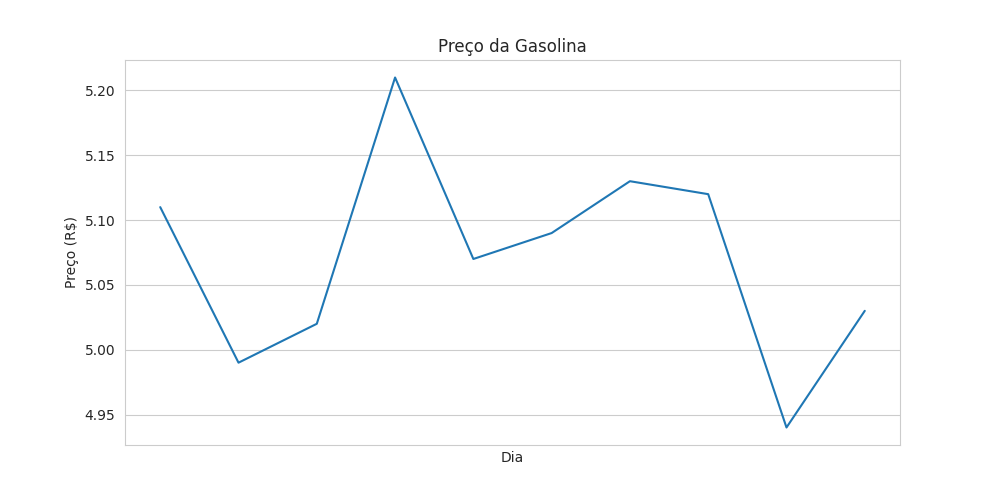
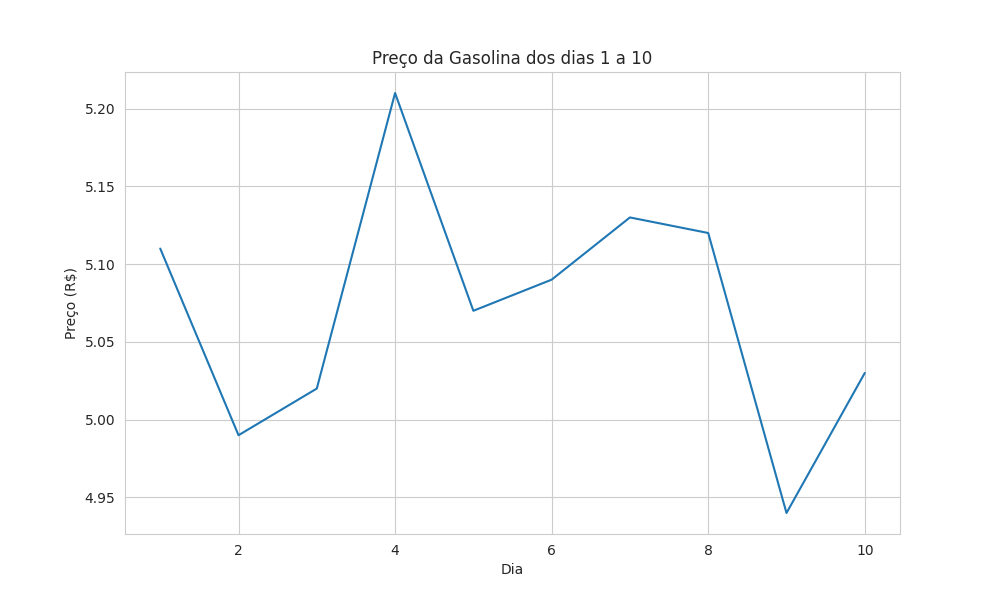
Arquivos gasolina.csv, gasolina.png e gasolina.py modificados

diff --git a/gasolina.py b/gasolina.py
@@ -2,12 +2,16 @@ import pandas as pd
 import seaborn as sns
 import matplotlib.pyplot as plt
 
+# Leitura do arquivo csv
 df = pd.read_csv('gasolina.csv')
-df['dia'] = pd.to_datetime(df['dia'])
+
+# Configurações do gráfico
 sns.set_style('whitegrid')
-fig, ax = plt.subplots(figsize=(10, 5))
+fig, ax = plt.subplots(figsize=(10, 6))
 sns.lineplot(x='dia', y='venda', data=df, ax=ax)
 plt.title('Preço da Gasolina')
 plt.xlabel('Dia')
 plt.ylabel('Preço (R$)')
+
+# Salvando o gráfico
 plt.savefig('gasolina.png')
